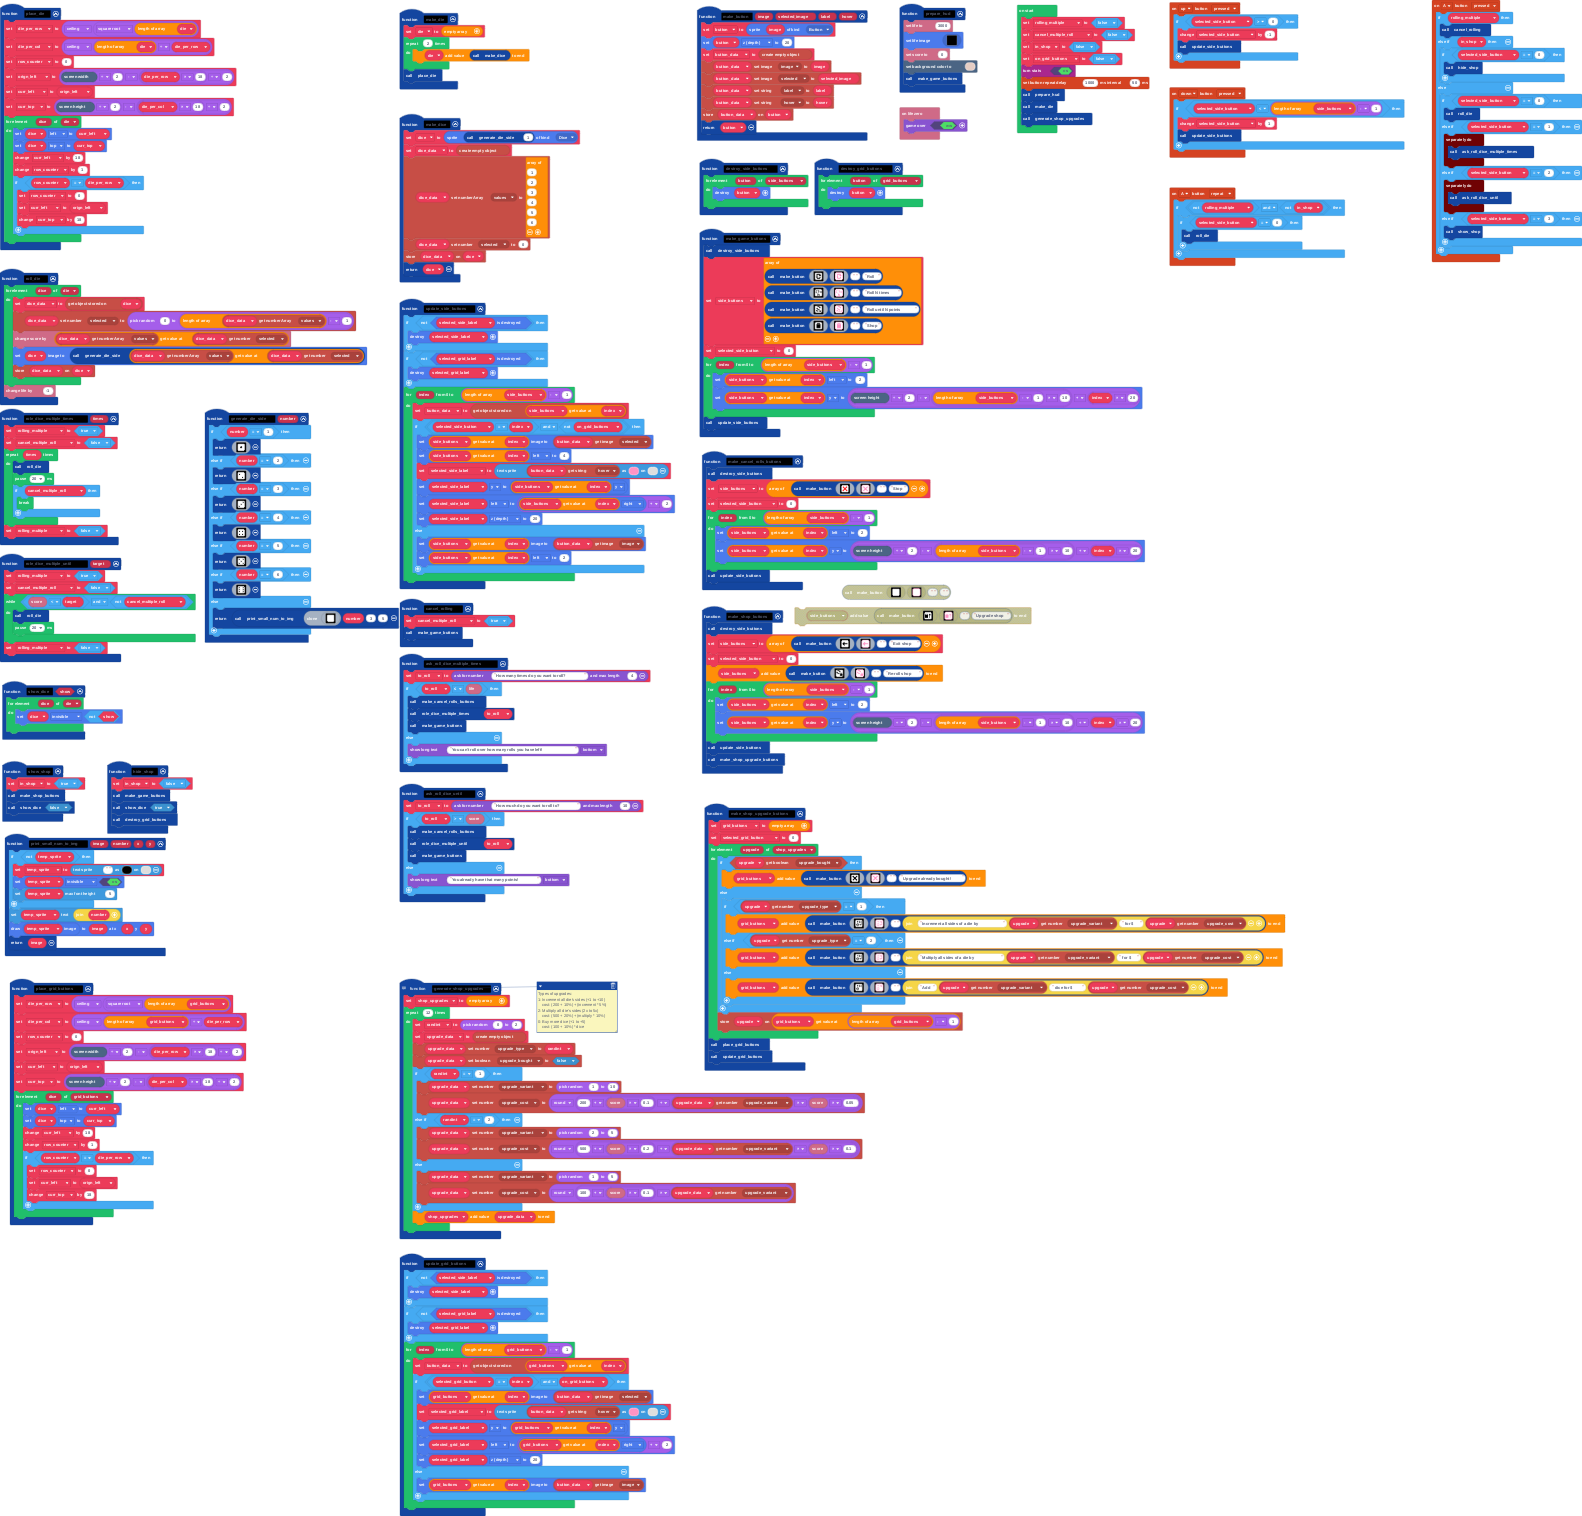
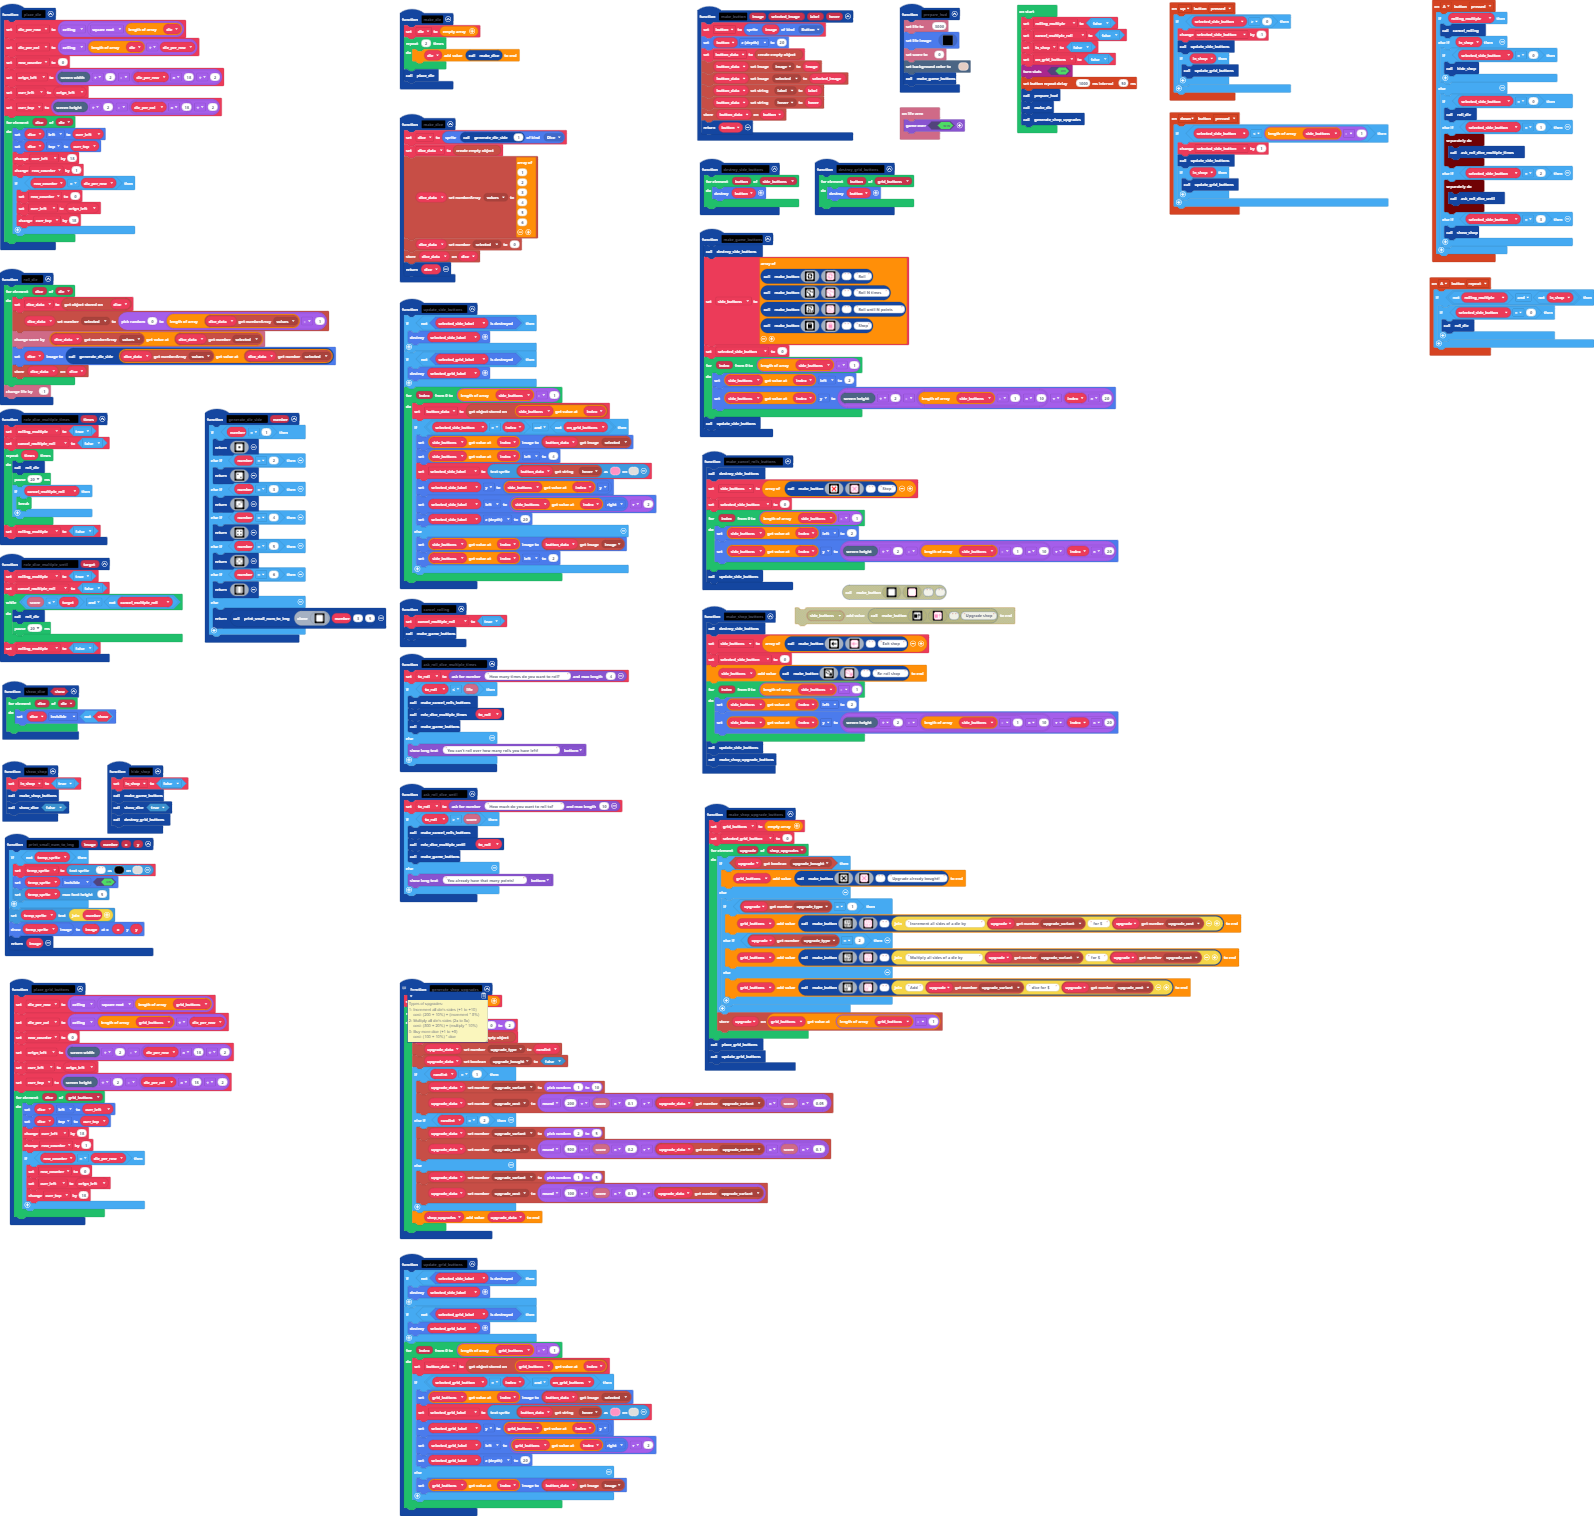
Update grid buttons on up/down

diff --git a/main.ts b/main.ts
@@ -48,6 +48,9 @@ controller.up.onEvent(ControllerButtonEvent.Pressed, function () {
     if (selected_side_button > 0) {
         selected_side_button += -1
         update_side_buttons()
+        if (in_shop) {
+            update_grid_buttons()
+        }
     }
 })
 function roll_die () {
@@ -284,6 +287,9 @@ controller.down.onEvent(ControllerButtonEvent.Pressed, function () {
     if (selected_side_button < side_buttons.length - 1) {
         selected_side_button += 1
         update_side_buttons()
+        if (in_shop) {
+            update_grid_buttons()
+        }
     }
 })
 function ask_roll_dice_multiple_times () {
